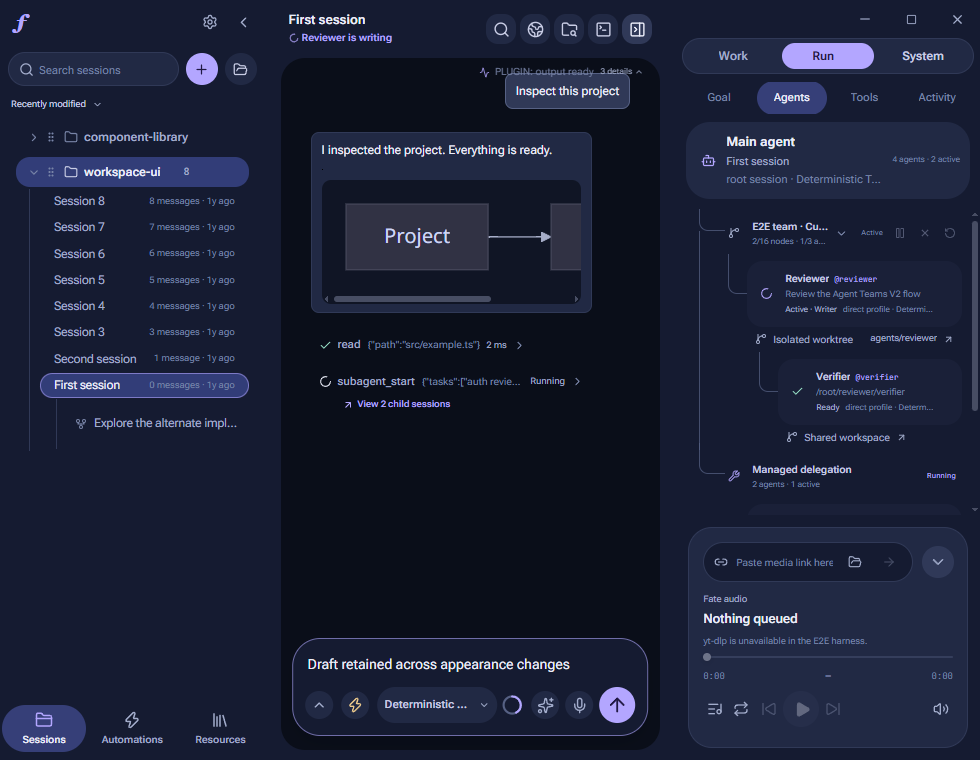
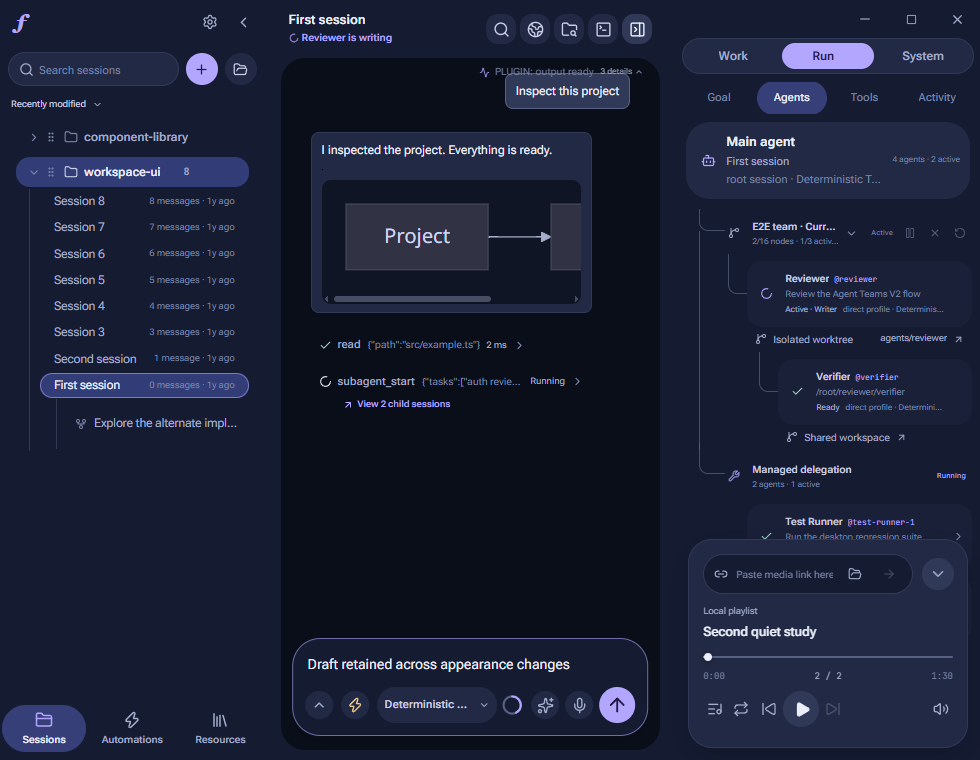
Fix floating music and stabilize M3 sidebar search

diff --git a/tests/e2e/m3-expressive.spec.ts b/tests/e2e/m3-expressive.spec.ts
@@ -118,6 +118,85 @@ async function agentIconGeometry(page: Page) {
   })).toEqual({ centered: true, balanced: true });
 }
 
+async function stableSidebarSearch(page: Page, name: string) {
+  await page.evaluate(() => document.fonts.ready);
+  const boxes: Array<{ x: number; y: number; width: number; height: number }> = [];
+  for (const tab of ['Sessions', 'Automations', 'Resources', 'Sessions', 'Resources', 'Automations', 'Sessions']) {
+    await page.getByRole('tab', { name: tab, exact: true }).click();
+    const input = page.getByRole('searchbox', { name: `Search ${tab.toLowerCase()}` });
+    await expect(input).toBeVisible();
+    const box = await input.boundingBox();
+    boxes.push({ x: box!.x, y: box!.y, width: box!.width, height: box!.height });
+    await input.fill('A deliberately long search query that stays within its slot');
+    await expect(input).toHaveValue('A deliberately long search query that stays within its slot');
+    const filled = await input.boundingBox();
+    expect({ x: filled!.x, y: filled!.y, height: filled!.height }).toEqual({ x: box!.x, y: box!.y, height: box!.height });
+    await input.fill('');
+    if (boxes.length <= 3) await page.locator('.sidebar').screenshot({ path: `screenshots/m3-expressive/${name}-${tab.toLowerCase()}.png`, animations: 'disabled' });
+  }
+  for (const box of boxes) expect(box).toEqual(boxes[0]);
+}
+
+// Same deterministic PCM fixture as the existing complete music journey.
+function silentWave() {
+  const bytes = Buffer.alloc(44 + 8000 * 90 * 2);
+  bytes.write('RIFF'); bytes.writeUInt32LE(bytes.length - 8, 4); bytes.write('WAVEfmt ', 8); bytes.writeUInt32LE(16, 16); bytes.writeUInt16LE(1, 20); bytes.writeUInt16LE(1, 22); bytes.writeUInt32LE(8000, 24); bytes.writeUInt32LE(16000, 28); bytes.writeUInt16LE(2, 32); bytes.writeUInt16LE(16, 34); bytes.write('data', 36); bytes.writeUInt32LE(bytes.length - 44, 40);
+  return bytes;
+}
+
+async function floatingMusic(page: Page, name: string) {
+  await expect(page.locator('.music-dock')).toHaveAttribute('data-open', 'true');
+  for (const selector of ['.music-dock', '.music-dock-stage']) {
+    await expect(page.locator(selector)).toHaveCSS('background-color', 'rgba(0, 0, 0, 0)');
+    await expect(page.locator(selector)).toHaveCSS('background-image', 'none');
+    await expect(page.locator(selector)).toHaveCSS('border-top-width', '0px');
+    await expect(page.locator(selector)).toHaveCSS('box-shadow', 'none');
+    await expect(page.locator(selector)).toHaveCSS('backdrop-filter', 'none');
+    await expect(page.locator(selector)).toHaveCSS('overflow', 'visible');
+  }
+  await page.getByRole('button', { name: 'Show playlist' }).click();
+  for (const selector of ['.music-player-panel', '.music-queue-panel']) {
+    await expect(page.locator(selector)).toHaveCSS('border-radius', '24px');
+    await expect(page.locator(selector)).not.toHaveCSS('box-shadow', 'none');
+  }
+  await expect(page.locator('.music-queue-list > li')).toHaveCount(2);
+  await page.locator('.music-queue-list > li').nth(1).getByRole('button').click();
+  await expect(page.locator('.music-track-copy strong')).toHaveText('Second quiet study');
+  await expect(page.getByRole('button', { name: 'Pause music' })).toBeEnabled();
+  await page.getByRole('button', { name: 'Pause music' }).click();
+  await page.mouse.move(400, 100);
+  const player = await page.locator('.music-player-panel').boundingBox();
+  const queue = await page.locator('.music-queue-panel').boundingBox();
+  expect(queue!.x).toBeGreaterThanOrEqual(0);
+  expect(queue!.x + queue!.width).toBeLessThan(player!.x);
+  await page.screenshot({ path: `screenshots/m3-expressive/${name}.png`, animations: 'disabled' });
+  // Compare real rendered corner pixels against the same underlying conversation with
+  // the player closed. No test-only DOM styles: only normal controls change visibility.
+  const clip = { x: Math.ceil(player!.x), y: Math.ceil(player!.y), width: 32, height: 32 };
+  const opened = await page.screenshot({ clip, animations: 'disabled', path: `screenshots/m3-expressive/${name}-corner.png` });
+  await page.getByRole('button', { name: 'Close music player' }).click();
+  await expect(page.locator('.music-player-panel')).toBeHidden();
+  const closed = await page.screenshot({ clip, animations: 'disabled' });
+  const difference = await page.evaluate(async ({ opened, closed }) => {
+    const pixels = async (data: number[]) => {
+      const image = await createImageBitmap(new Blob([new Uint8Array(data)], { type: 'image/png' }));
+      const canvas = document.createElement('canvas'); canvas.width = image.width; canvas.height = image.height;
+      const context = canvas.getContext('2d')!; context.drawImage(image, 0, 0); image.close();
+      return context.getImageData(0, 0, canvas.width, canvas.height).data;
+    };
+    const [a, b] = await Promise.all([pixels(opened), pixels(closed)]);
+    const delta = (x: number, y: number) => Math.max(...[0, 1, 2].map((channel) => Math.abs(a[(y * 32 + x) * 4 + channel]! - b[(y * 32 + x) * 4 + channel]!)));
+    return { corner: delta(1, 1), inside: delta(24, 24) };
+  }, { opened: [...opened], closed: [...closed] });
+  // A subtle rounded card shadow may tint the corner, but an opaque rectangular
+  // backing would replace it with the panel color just like the inside sample.
+  expect(difference.corner).toBeLessThanOrEqual(8);
+  expect(difference.inside).toBeGreaterThan(8);
+  expect(difference.corner).toBeLessThan(difference.inside * 0.6);
+  await page.getByRole('button', { name: 'Open music player' }).click();
+  await expect(page.locator('.music-player-panel')).toBeVisible();
+}
+
 async function dockGeometry(page: Page) {
   await expect.poll(() => page.evaluate(() => {
     const bounds = (selector: string) => document.querySelector(selector)!.getBoundingClientRect();
@@ -126,17 +205,16 @@ async function dockGeometry(page: Page) {
     const toggle = bounds('.music-dock-toggle');
     const source = bounds('.music-source');
     const content = bounds('.tab-content[data-state="active"]');
-    const emptyCard = document.querySelector('.subagent-empty');
     return {
-      emptyCardGap: !emptyCard || Math.abs(player.top - emptyCard.getBoundingClientRect().bottom - 12) < 2,
       equalSides: Math.abs((player.left - inspector.left) - (inspector.right - player.right)) < 1,
       equalBottom: Math.abs((player.left - inspector.left) - (inspector.bottom - player.bottom)) < 1,
-      noOverlap: content.bottom <= player.top - 10,
+      floatingOverlay: content.bottom > player.bottom,
+      noFooter: getComputedStyle(document.querySelector('.inspector-tabs')!).paddingBottom === '0px',
       toggleInside: toggle.top >= player.top && toggle.right <= player.right && source.right <= toggle.left,
       controlsFit: [...document.querySelectorAll('.music-controls button')].every((button) => button.getBoundingClientRect().right <= player.right - 8),
       sourceBorder: getComputedStyle(document.querySelector('.music-source')!).borderBottomWidth,
     };
-  })).toEqual({ emptyCardGap: true, equalSides: true, equalBottom: true, noOverlap: true, toggleInside: true, controlsFit: true, sourceBorder: '1px' });
+  })).toEqual({ equalSides: true, equalBottom: true, floatingOverlay: true, noFooter: true, toggleInside: true, controlsFit: true, sourceBorder: '1px' });
 }
 
 test('M3 Expressive independent preview, save, compact layout and restart', async () => {
@@ -218,13 +296,32 @@ test('M3 Expressive independent preview, save, compact layout and restart', asyn
     await settings.getByRole('button', { name: 'Save changes' }).click();
     await page.screenshot({ path: 'screenshots/m3-expressive/settings.png' });
     await settings.getByRole('button', { name: 'Close settings' }).click();
+    await stableSidebarSearch(page, 'search-normal');
+    await page.getByRole('button', { name: 'Settings', exact: true }).click();
+    await settings.getByRole('tab', { name: /Skins/u }).click();
+    await interfaceFont.click();
+    await page.getByRole('option', { name: /^JetBrains Mono/u }).click();
+    await settings.getByRole('button', { name: 'Save changes' }).click();
+    await settings.getByRole('button', { name: 'Close settings' }).click();
+    await stableSidebarSearch(page, 'search-mono');
+    await page.getByRole('button', { name: 'Settings', exact: true }).click();
+    await settings.getByRole('tab', { name: /Skins/u }).click();
+    await settings.getByRole('button', { name: 'Reset to skin appearance defaults' }).click();
+    await settings.getByRole('button', { name: 'Save changes' }).click();
+    await settings.getByRole('button', { name: 'Close settings' }).click();
     await geometry(page, chromeRadius);
     await expect(page.locator('.composer')).toHaveCSS('border-radius', '36px');
     await page.locator('.inspector-primary-trigger').filter({ hasText: 'Run' }).click();
     await page.getByRole('tab', { name: /^Subagent sessions/u }).click();
+    const inspectorContentBeforeMusic = await page.locator('.tab-content[data-state="active"]').boundingBox();
     await page.getByRole('button', { name: 'Open music player' }).click();
     await page.mouse.move(700, 450);
+    await expect.poll(() => page.locator('.tab-content[data-state="active"]').boundingBox()).toEqual(inspectorContentBeforeMusic);
     await dockGeometry(page);
+    await page.locator('.music-dock input[type="file"]').setInputFiles([{ name: 'Quiet study.wav', mimeType: 'audio/wav', buffer: silentWave() }, { name: 'Second quiet study.wav', mimeType: 'audio/wav', buffer: silentWave() }]);
+    await page.getByRole('button', { name: 'Collapse inspector', exact: true }).click();
+    await floatingMusic(page, 'music-floating');
+    await page.getByRole('button', { name: 'Open inspector', exact: true }).click();
     await page.screenshot({ path: 'screenshots/m3-expressive/workspace-1600.png', animations: 'disabled' });
     await page.evaluate(async () => {
       await window.piDesktop.prompt({ text: '__FATE_AGENT_FIXTURE__', behavior: 'prompt' });
@@ -254,6 +351,9 @@ test('M3 Expressive independent preview, save, compact layout and restart', asyn
     const browser = page.getByRole('region', { name: 'Built-in browser', exact: true });
     await browser.getByRole('button', { name: 'New browser tab' }).click();
     await expect(browser.getByRole('tab')).toHaveCount(2);
+    await page.getByRole('button', { name: 'Open music player' }).click();
+    await floatingMusic(page, 'music-browser-shifted');
+    await page.getByRole('button', { name: 'Close music player' }).click();
     await page.screenshot({ path: 'screenshots/m3-expressive/resources-browser.png', animations: 'disabled' });
     await browser.getByRole('button', { name: 'Close browser', exact: true }).click();
     await page.getByRole('button', { name: 'Open inspector', exact: true }).click();
@@ -306,7 +406,24 @@ test('M3 Expressive independent preview, save, compact layout and restart', asyn
     await expect(page.locator('.composer')).toHaveCSS('border-radius', '28px');
     await dockGeometry(page);
     await agentIconGeometry(page);
+    await stableSidebarSearch(page, 'search-compact');
     await page.screenshot({ path: 'screenshots/m3-expressive/compact-1100.png', animations: 'disabled' });
+    await page.getByRole('button', { name: 'Collapse inspector', exact: true }).click();
+    await floatingMusic(page, 'music-floating-compact');
+    await page.getByRole('button', { name: 'Settings', exact: true }).click();
+    await settings.getByRole('tab', { name: /Skins/u }).click();
+    await palette.click();
+    await page.getByRole('option', { name: /^Daylight/u }).click();
+    await settings.getByRole('button', { name: 'Save changes' }).click();
+    await settings.getByRole('button', { name: 'Close settings' }).click();
+    await floatingMusic(page, 'music-floating-light');
+    await page.getByRole('button', { name: 'Settings', exact: true }).click();
+    await settings.getByRole('tab', { name: /Skins/u }).click();
+    await palette.click();
+    await page.getByRole('option', { name: /^M3 Expressive/u }).press('Enter');
+    await settings.getByRole('button', { name: 'Save changes' }).click();
+    await settings.getByRole('button', { name: 'Close settings' }).click();
+    await page.getByRole('button', { name: 'Open inspector', exact: true }).click();
     const beforeBackground = await page.locator('.browser-thread-layout').screenshot({ animations: 'disabled' });
     await page.getByRole('button', { name: 'Settings', exact: true }).click();
     await settings.getByRole('tab', { name: /Skins/u }).click();
@@ -328,6 +445,19 @@ test('M3 Expressive independent preview, save, compact layout and restart', asyn
     await geometry(page, chromeRadius);
     await dockGeometry(page);
     await agentIconGeometry(page);
+    await page.getByRole('button', { name: 'Settings', exact: true }).click();
+    await settings.getByRole('tab', { name: /Skins/u }).click();
+    await interfaceFont.click();
+    await page.getByRole('option', { name: /^JetBrains Mono/u }).click();
+    await settings.getByRole('button', { name: 'Save changes' }).click();
+    await settings.getByRole('button', { name: 'Close settings' }).click();
+    await stableSidebarSearch(page, 'search-compact-mono');
+    await page.getByRole('button', { name: 'Settings', exact: true }).click();
+    await settings.getByRole('tab', { name: /Skins/u }).click();
+    await interfaceFont.click();
+    await page.getByRole('option', { name: /^Roboto Flex/u }).press('Enter');
+    await settings.getByRole('button', { name: 'Save changes' }).click();
+    await settings.getByRole('button', { name: 'Close settings' }).click();
     await page.screenshot({ path: 'screenshots/m3-expressive/compact-980.png', animations: 'disabled' });
     await page.getByRole('button', { name: 'Close music player' }).click();
     await page.getByRole('button', { name: 'Collapse inspector', exact: true }).click();

diff --git a/src/renderer/styles/skins/m3-expressive.css b/src/renderer/styles/skins/m3-expressive.css
@@ -11,7 +11,7 @@
 :root[data-skin="m3-expressive"] :is(.sidebar, .workspace, .inspector) {
   margin: 0; border: 0; border-radius: 0; background: var(--theme-panel); box-shadow: none;
 }
-:root[data-skin="m3-expressive"] .sidebar { padding: 18px 14px 12px; }
+:root[data-skin="m3-expressive"] .sidebar { padding: 18px 14px 12px; container-type: inline-size; }
 :root[data-skin="m3-expressive"] .sidebar.sidebar--collapsed { padding-inline: 4px; }
 :root[data-skin="m3-expressive"] .app-shell > .resize-handle::after { background: transparent; }
 :root[data-skin="m3-expressive"] .app-shell > .resize-handle:is(:hover, :focus-visible)::after { background: var(--theme-accent); }
@@ -38,7 +38,10 @@
 :root[data-skin="m3-expressive"] .brand-row { margin-bottom: 12px; }
 :root[data-skin="m3-expressive"] .brand-copy strong { font-size: 16px; }
 :root[data-skin="m3-expressive"] .session-toolbar { margin: 4px 0 0; }
-:root[data-skin="m3-expressive"] .sidebar-tab-toolbar { gap: 7px; }
+:root[data-skin="m3-expressive"] :is(.sidebar-resource-panel, .sidebar-automation-panel) { padding: 4px 0; }
+:root[data-skin="m3-expressive"] .sidebar-tab-content { animation: none; }
+/* Keep the search origin and both action slots stable across all three tabs. */
+:root[data-skin="m3-expressive"] .sidebar-tab-toolbar { display: grid; width: 100cqw; grid-template-columns: minmax(0, 1fr) 40px 40px; gap: 7px; }
 :root[data-skin="m3-expressive"] .sidebar-search { height: 40px; border: 1px solid var(--theme-border); border-radius: 24px; background: var(--theme-raised); color: var(--theme-muted); padding-inline: 10px; gap: 5px; }
 :root[data-skin="m3-expressive"] .sidebar-search > svg { flex: none; }
 :root[data-skin="m3-expressive"] .sidebar-search input { font-size: 12px; }
@@ -105,18 +108,18 @@
 :root[data-skin="m3-expressive"] .subagent-empty { margin: 0 10px 12px; border-radius: 24px; background: var(--theme-raised); }
 :root[data-skin="m3-expressive"] .subagent-empty strong { font-size: 14px; }
 :root[data-skin="m3-expressive"] .subagent-empty p { font-size: 12px; line-height: 1.6; }
-:root[data-skin="m3-expressive"]:has(.music-dock[data-open="true"]) .subagent-empty { margin-bottom: 0; }
 :root[data-skin="m3-expressive"] :is(.settings-dialog, [role="dialog"], [role="alertdialog"], .model-popover, .provider-dialog-content) { border-radius: 24px; background: var(--theme-panel); }
 :root[data-skin="m3-expressive"] :is([role="menu"], .custom-select-content, .popover-content) { border-radius: 18px; background: var(--theme-raised); }
 :root[data-skin="m3-expressive"] :is(.settings-group, .context-dashboard > section, .goalmax-overview-facts, .agent-tree-branch) { box-shadow: none; }
 :root[data-skin="m3-expressive"] :is(.settings-nav-button, .custom-select-item, .palette-item, .file-row, .resource-type-row, .automation-open, .activity-chip) { border-radius: 10px; }
 :root[data-skin="m3-expressive"] :is(.settings-theme-select, .settings-font-select) { flex: 0 0 160px; max-width: 50%; }
 :root[data-skin="m3-expressive"] .music-dock { left: var(--m3-music-left, auto); right: calc(24px + var(--music-dock-inset, 0px)); bottom: var(--m3-music-bottom, 24px); width: var(--m3-music-width, min(320px, calc(100vw - 48px - var(--music-dock-inset, 0px)))); transition: none; }
-:root[data-skin="m3-expressive"] .inspector-tabs { padding-bottom: var(--m3-music-reserve, 0px); }
+/* Layout wrappers must not paint a rectangular backing or clip the left-hand playlist. */
+:root[data-skin="m3-expressive"] :is(.music-dock, .music-dock-stage) { background: transparent; border: 0; box-shadow: none; backdrop-filter: none; overflow: visible; }
 :root[data-skin="m3-expressive"] .subagent-chat-preview--empty { display: none; }
 :root[data-skin="m3-expressive"] .subagent-sessions:has(.subagent-chat-preview--empty) > .horizontal-resize-handle { display: none; }
 :root[data-skin="m3-expressive"] .subagent-chat-preview:not(.subagent-chat-preview--empty) { flex-shrink: 1; max-height: 55%; }
-:root[data-skin="m3-expressive"] :is(.music-player-panel, .music-queue-panel) { border: 1px solid var(--theme-border); border-radius: 24px; background: var(--theme-raised); box-shadow: none; }
+:root[data-skin="m3-expressive"] :is(.music-player-panel, .music-queue-panel) { border: 1px solid var(--theme-border); border-radius: 24px; background: var(--theme-raised); box-shadow: 0 8px 24px color-mix(in srgb, var(--theme-shadow) 22%, transparent); }
 :root[data-skin="m3-expressive"] .music-player-panel { padding: 14px; container-name: m3-music; container-type: inline-size; }
 :root[data-skin="m3-expressive"] .music-source { height: 40px; margin-right: 40px; padding: 0 10px; border: 1px solid var(--theme-border); border-radius: 24px; background: var(--theme-panel); }
 :root[data-skin="m3-expressive"] .music-source:focus-within { border-color: var(--theme-accent); }
@@ -133,6 +136,8 @@
 :root[data-skin="m3-expressive"][data-compact-mode="true"] { --m3-control-radius: 10px; --m3-action-size: 30px; --m3-agent-icon-size: 24px; --m3-agent-header-half: 18px; }
 :root[data-skin="m3-expressive"][data-compact-mode="true"] .sidebar { padding: 8px; }
 :root[data-skin="m3-expressive"][data-compact-mode="true"] .sidebar-search { height: 34px; }
+:root[data-skin="m3-expressive"][data-compact-mode="true"] .sidebar-tab-toolbar { grid-template-columns: minmax(0, 1fr) 32px 32px; }
+:root[data-skin="m3-expressive"][data-compact-mode="true"] .session-toolbar { margin-top: 4px; }
 :root[data-skin="m3-expressive"][data-compact-mode="true"] .sidebar-toolbar-action { flex: 0 0 32px; }
 :root[data-skin="m3-expressive"][data-compact-mode="true"] .sidebar-toolbar-action > button { flex: 0 0 32px; width: 32px; min-width: 32px; height: 32px; border-radius: 50%; }
 :root[data-skin="m3-expressive"][data-compact-mode="true"] .sidebar-tab-toolbar { align-items: center; }

diff --git a/src/renderer/skins/useM3MusicDockLayout.ts b/src/renderer/skins/useM3MusicDockLayout.ts
@@ -2,12 +2,12 @@ import { useLayoutEffect, useSyncExternalStore, type RefObject } from 'react';
 import { getAppliedSkin, subscribeSkinChanges } from '../skin';
 import { useUiStore } from '../stores/uiStore';
 
-const properties = ['--m3-music-left', '--m3-music-width', '--m3-music-bottom', '--m3-music-reserve'] as const;
+const properties = ['--m3-music-left', '--m3-music-width', '--m3-music-bottom'] as const;
 
 /** The player remains mounted (including its audio element); only its geometry changes.
- * Measure instead of assuming the inspector's stored width or the player's content height.
+ * Align to the real inspector without reserving an opaque footer: this is an overlay.
  * Browser-shift and collapsed-inspector layouts keep the existing floating-dock behavior. */
-export function useM3MusicDockLayout(panel: RefObject<HTMLElement>, enabled: boolean, open: boolean, browserInset: number): void {
+export function useM3MusicDockLayout(panel: RefObject<HTMLElement>, enabled: boolean, browserInset: number): void {
   const skin = useSyncExternalStore(subscribeSkinChanges, getAppliedSkin, getAppliedSkin);
   const collapsed = useUiStore((state) => state.inspectorCollapsed);
   useLayoutEffect(() => {
@@ -18,7 +18,7 @@ export function useM3MusicDockLayout(panel: RefObject<HTMLElement>, enabled: boo
     const measure = () => {
       const bounds = inspector.getBoundingClientRect();
       const inset = 12;
-      const values = [bounds.left + inset, Math.max(0, bounds.width - inset * 2), window.innerHeight - bounds.bottom + inset, open ? panel.current!.offsetHeight + inset * 2 : 0];
+      const values = [bounds.left + inset, Math.max(0, bounds.width - inset * 2), window.innerHeight - bounds.bottom + inset];
       properties.forEach((property, index) => {
         const value = `${values[index]}px`;
         if (root.style.getPropertyValue(property) !== value) root.style.setProperty(property, value);
@@ -27,12 +27,11 @@ export function useM3MusicDockLayout(panel: RefObject<HTMLElement>, enabled: boo
     measure();
     const observer = new ResizeObserver(measure);
     observer.observe(inspector);
-    observer.observe(panel.current);
     window.addEventListener('resize', measure);
     return () => {
       observer.disconnect();
       window.removeEventListener('resize', measure);
       properties.forEach((property) => root.style.removeProperty(property));
     };
-  }, [panel, enabled, open, browserInset, collapsed, skin.base]);
+  }, [panel, enabled, browserInset, collapsed, skin.base]);
 }

diff --git a/src/renderer/skins/useM3MusicDockLayout.test.tsx b/src/renderer/skins/useM3MusicDockLayout.test.tsx
@@ -5,19 +5,16 @@ import { applySkin } from '../skin';
 import { useUiStore } from '../stores/uiStore';
 import { useM3MusicDockLayout } from './useM3MusicDockLayout';
 
-function Player({ open = true, browserInset = 0 }: { open?: boolean; browserInset?: number }) {
+function Player({ browserInset = 0 }: { browserInset?: number }) {
   const panel = useRef<HTMLElement | null>(null);
-  useM3MusicDockLayout(panel, true, open, browserInset);
-  return <section ref={(element) => {
-    panel.current = element;
-    if (element) Object.defineProperty(element, 'offsetHeight', { configurable: true, value: 230 });
-  }} />;
+  useM3MusicDockLayout(panel, true, browserInset);
+  return <section ref={panel} />;
 }
 
 afterEach(() => { cleanup(); document.querySelector('.inspector')?.remove(); applySkin('default'); vi.unstubAllGlobals(); });
 
 describe('M3 dock geometry', () => {
-  it('measures equal inspector insets, reserves real content height, and cleans up for other layouts', () => {
+  it('measures equal inspector insets without reserving a footer, and cleans up for other layouts', () => {
     const disconnect = vi.fn();
     vi.stubGlobal('ResizeObserver', class { observe() {} disconnect = disconnect; });
     useUiStore.setState({ inspectorCollapsed: false });
@@ -31,9 +28,7 @@ describe('M3 dock geometry', () => {
     expect(style.getPropertyValue('--m3-music-left')).toBe('1012px');
     expect(style.getPropertyValue('--m3-music-width')).toBe('276px');
     expect(style.getPropertyValue('--m3-music-bottom')).toBe(`${innerHeight - 750 + 12}px`);
-    expect(style.getPropertyValue('--m3-music-reserve')).toBe('254px');
-    view.rerender(<Player open={false} />);
-    expect(style.getPropertyValue('--m3-music-reserve')).toBe('0px');
+    expect(style.getPropertyValue('--m3-music-reserve')).toBe('');
     view.rerender(<Player browserInset={400} />);
     expect(style.getPropertyValue('--m3-music-width')).toBe('');
     view.rerender(<Player />);

diff --git a/src/renderer/features/music/MusicPlayerDock.tsx b/src/renderer/features/music/MusicPlayerDock.tsx
@@ -84,7 +84,7 @@ export function MusicPlayerDock() {
   const [error, setError] = useState<string | null>(null);
   const audioRef = useRef<HTMLAudioElement>(null);
   const panelRef = useRef<HTMLElement>(null);
-  useM3MusicDockLayout(panelRef, enabled, open, browserInset);
+  useM3MusicDockLayout(panelRef, enabled, browserInset);
   const playlistRef = useRef<HTMLElement>(null);
   const sourceRef = useRef<HTMLInputElement>(null);
   const localFileInputRef = useRef<HTMLInputElement>(null);

diff --git a/docs/m3-expressive.md b/docs/m3-expressive.md
@@ -11,9 +11,9 @@ Roboto Flex is the skin's bundled interface-font default. Code font, density, mo
 - The supplied workspace reference governs the blue-indigo frame/header, near-black rounded conversation inset, selected navigation capsules, and 36px outlined floating composer with a circular send action. Following explicit user feedback, the outer sidebar/workspace/inspector containers are now contiguous and square at their junctions: no black perimeter, floating-pane gutters, or rounded outer islands. Resize tracks use the same panel tone and retain their full hit regions. Compact/collapsed layouts keep this continuous frame and the expressive inner controls.
 - Surface hierarchy comes from palette tokens, not decorative gradients, glass, generated wallpaper, or nested cards. The companion palette is a restrained, manually mapped approximation of Material color roles—not a claim of a generated canonical Material scheme. Other dark/light palettes retain the skin's geometry.
 - The two emphasized areas are navigation and the prompt. Operational typography remains dense; literal code keeps the selected code font. Existing components, handlers, keyboard semantics, capability gates, and resize regions remain authoritative.
-- Agent group headers use centered square icon slots with balanced leading/label spacing and aligned tree connectors. Compact search and its add/folder actions scale together, leaving the placeholder readable.
+- Agent group headers use centered square icon slots with balanced leading/label spacing and aligned tree connectors. Compact search and its add/folder actions scale together, leaving the placeholder readable. Sidebar tabs share the search origin, height and two action slots; missing actions leave empty layout space, not dummy controls. M3 omits the tab-entry vertical animation so switching Sessions/Automations/Resources does not move the search row, including with a user-selected monospace font.
 - Detailed session rows keep metadata and hover actions without reserving an empty extra line. Both detailed and compact rows leave safe inner space around their curves.
-- The music player stays mounted, including its audio element. A small renderer-only layout observer aligns it 12px inside the actual resized inspector and reserves its measured height in the inspector's scroll region. Its collapse control is integrated into the top row. Collapsed inspector/browser-shift states retain the existing floating fallback. An empty subagent-preview placeholder and its otherwise purposeless resize rule are omitted; selecting a real agent still opens the real preview.
+- The music player stays mounted, including its audio element. A small renderer-only layout observer aligns it 12px inside the actual resized inspector without shrinking the inspector's scroll region. The previous height reservation exposed a rectangular inspector-colored footer behind the rounded card; it is now a genuine overlay. Layout wrappers are explicitly transparent and unclipped; subtle token-derived shadows belong only to the rounded player/playlist cards. Its collapse control is integrated into the top row. Collapsed inspector/browser-shift states retain the existing floating fallback. An empty subagent-preview placeholder and its otherwise purposeless resize rule are omitted; selecting a real agent still opens the real preview.
 - The conversation fill sits below the existing dither layer; the content above remains transparent. There is no skin-specific image or external resource request.
 - Native window buttons are not Material controls. Their platform order, shape, drag exclusions, and reserved areas are unchanged. The native window remains opaque and resizable. This is the user's explicitly accepted **joined-pane fallback**, not native transparency or a CSS transparency claim. Electron 43.6.0 documents that transparent windows are not reliably resizable and Windows system-menu/double-click maximize is unavailable; `transparent` is a construction option, not a runtime appearance toggle. Introducing those constraints globally would affect other skins. No native window options were changed.
 
@@ -43,7 +43,7 @@ Theme-compliance follow-up verification: typecheck and E2E build passed; four fo
 
 ## Verification and screenshots
 
-`tests/e2e/m3-expressive.spec.ts` launches real Electron with the existing deterministic test runtime. It exercises selection, palette independence, preview cancellation, saved restart, normal/compact layouts, pane resizing, task/model/tool/resource/browser surfaces, agent fixtures, music geometry, and importing/removing an actual personal background. It checks zero outer pane margins/radii, contiguous pane/resize-track geometry and matching panel backgrounds at normal/compact/collapsed widths, no document overflow, composer/header containment, complete secondary-tab labels, safe session insets, centered root/group/node agent icons and balanced group-header spacing, readable search placeholders, unchanged platform chrome shape, symmetric dock insets, and inspector scroll clearance. Screenshots are not DOM-styled mockups.
+`tests/e2e/m3-expressive.spec.ts` launches real Electron with the existing deterministic test runtime. It exercises selection, palette independence, preview cancellation, saved restart, normal/compact layouts, pane resizing, task/model/tool/resource/browser surfaces, agent fixtures, music geometry, and importing/removing an actual personal background. It checks zero outer pane margins/radii, contiguous pane/resize-track geometry and matching panel backgrounds at normal/compact/collapsed widths, no document overflow, composer/header containment, complete secondary-tab labels, safe session insets, centered root/group/node agent icons and balanced group-header spacing, readable search placeholders, unchanged platform chrome shape, symmetric dock insets, and unchanged inspector content geometry when the music overlay opens. Screenshots are not DOM-styled mockups.
 
 The screenshots use fixture sessions, agents, tool output, and a local Git project, not a live authenticated model. Normal captures are 1600×900 with panes resized through real controls; compact captures are 1100×760 and 980×760, plus 640×680 with the panes collapsed through their real controls. `background-study.png` explicitly uses the repository's synthetic light-study image to test dither visibility; it is not bundled artwork for this skin.
 
@@ -61,6 +61,8 @@ Verified in the isolated implementation checkout on Windows:
 - `pnpm verify` after Roboto Flex integration: passed typecheck, 194 unit files (2,051 passed / 3 skipped), production and E2E builds, and all 18 Electron journeys.
 - Font-focused checks also passed: 3 unit files / 10 tests and the M3/Angelcore Electron journeys, including a real built-in-font pack import and custom WOFF2 picker/restart flow. The M3 journey confirms actual loaded Roboto Flex and JetBrains Mono faces, automatic optical sizing, Inter override/default reset, and zero HTTP(S) font requests. Gallery images were refreshed after the bundled Roboto Flex face loaded.
 - `git diff --check`: passed. The build emits the existing large-chunk advisory.
+
+Music/sidebar follow-up: actual Electron inspection found the dock/stage wrappers already transparent, but opening music reduced active inspector content height from 760px to 515px, exposing a 245px opaque footer. A no-reflow regression failed before removing the reservation. Follow-up verification passed `pnpm verify` (typecheck, 194 unit files / 2,051 passed and 3 skipped, production/E2E builds, all 18 Electron journeys) and the focused music/layout unit rerun (13 tests). New music captures (`music-floating.png`, `music-floating-compact.png`, `music-floating-light.png`, `music-browser-shifted.png` and their corner crops) exercise real local PCM playback, playlist selection, close/reopen, and compare actual corner pixels with underlying content while closed. `music-reserved-footer-before.png` records the old reservation. Search captures (`search-{normal,mono,compact,compact-mono}-{sessions,automations,resources}.png`) and repeated tab-click geometry assertions cover both Roboto Flex and JetBrains Mono without forcing the interface font.
 
 Native screenshots are captured on Windows only. Parameterized WindowChrome unit tests cover Windows/macOS/Linux branch behavior; they are not native macOS/Linux visual verification.
 
